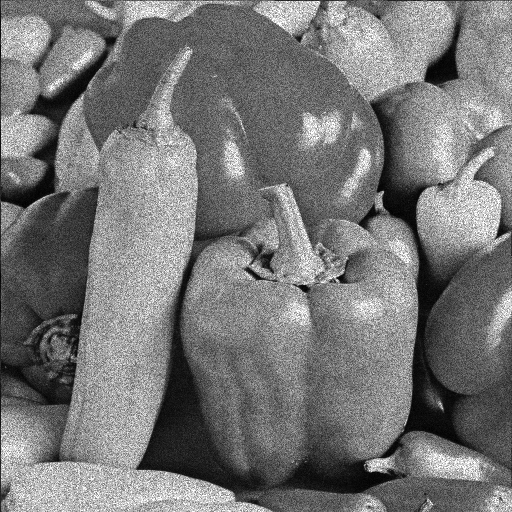
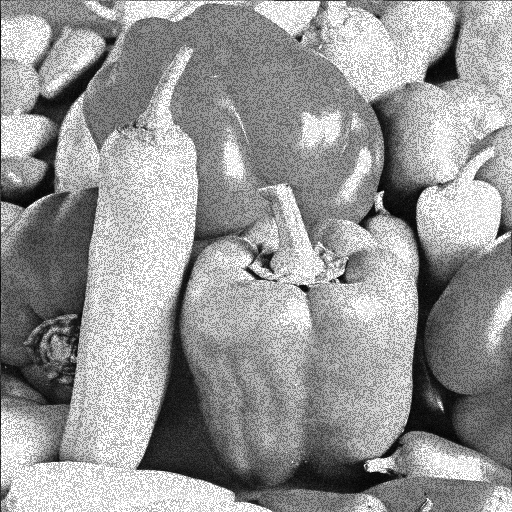
code fini

diff --git a/Noise/Multiplicative_Noise/main.py b/Noise/Multiplicative_Noise/main.py
@@ -11,23 +11,21 @@ image_path = '../../Reference_Images/image1_reference.png'
 image = io.imread(image_path)
 normal_image = image.copy().astype(float) # Convert to float for accurate calculations
 
-# The strength of the multiplicative noise
-multiplicative_noise = input('Enter the multiplicative noise value (0-255) : ')
-while multiplicative_noise == '' or float(multiplicative_noise) < 0 or float(multiplicative_noise) > 255:
-    multiplicative_noise = input('Enter the multiplicative noise value (0-255) : ')
-multiplicative_noise = float(multiplicative_noise)
-
 # The probability of the noise
 noise_probability = input('Enter the noise probability (0-1, the lower the stronger) : ')
 while noise_probability == '' or float(noise_probability) < 0 or float(noise_probability) > 1:
     noise_probability = input('Enter the noise probability (0-1, the lower the stronger) : ')
 noise_probability = float(noise_probability)
 
+mean = 1  # Multiplicative noise mean is usually 1
+std_dev = 0.1  # Adjust this value based on the desired level of noise
+
 # Iterate through each pixel in the image and apply multiplicative noise
 for row in range(len(image)):
     for pixel in range(len(image[row])):
         if np.random.random() > noise_probability:
-            noise = np.random.uniform(-multiplicative_noise/255, multiplicative_noise/255)
+            noise = float(np.random.normal(mean, std_dev))
+            noise = np.clip(noise, -0.5, 0.5)  # Adjust the range of noise factor as needed
             # Apply the multiplicative noise: u * (1 + n)
             image[row][pixel] = np.clip(image[row][pixel] * (1 + noise), 0, 255)
 

diff --git a/Noise/Additive_Noise/main.py b/Noise/Additive_Noise/main.py
@@ -11,23 +11,20 @@ image_path = '../../Reference_Images/image1_reference.png'
 image = io.imread(image_path)
 normal_image = image.copy().astype(float) # Convert to float for accurate calculations
 
-# The strength of the additive noise
-additive_noise = input('Enter the additive noise value (0-255) : ')
-while additive_noise == '' or float(additive_noise) < 0 or float(additive_noise) > 255:
-    additive_noise = input('Enter the additive noise value (0-255) : ')
-additive_noise = float(additive_noise)
-
 # The probability of the noise
 noise_probability = input('Enter the noise probability (0-1, the lower the stronger) : ')
 while noise_probability == '' or float(noise_probability) < 0 or float(noise_probability) > 1:
     noise_probability = input('Enter the noise probability (0-1, the lower the stronger) : ')
 noise_probability = float(noise_probability)
 
+mean = 0
+std_dev = 50
 # Iterate through each pixel in the image and randomly add or subtract the random additive noise value (min 0, max 255)
 for row in range(len(image)):
     for pixel in range(len(image[row])):
         if np.random.random() > noise_probability:
-            noise = np.random.uniform(-additive_noise, additive_noise)
+            noise = float(np.random.normal(mean, std_dev))
+            noise = np.clip(noise, -255, 255)
             #u + n
             image[row][pixel] = np.clip((image[row][pixel] + noise), 0, 255)
 

diff --git a/Noise/Gaussian_Noise/main.py b/Noise/Gaussian_Noise/main.py
@@ -3,15 +3,6 @@ import math
 from skimage import io
 import numpy as np 
 
-# Fonction pour générer du bruit gaussien
-def generate_gaussian_noise(mu, sigma):
-    u1 = random.random()
-    u2 = random.random()
-    x = math.sqrt(-2 * math.log(u1)) * math.cos(2 * math.pi * u2)
-    #TODO: random.normalvariate(mu, sigma)
-    #TODO: faire du np.random.normal(mu, sigma) dans chaque type de bruits au lieu de demander a l'user de choisir entre 0-255
-    return mu + sigma * x
-
 def compute_snr(image, noisy_image):
     signal_power = np.mean(image**2)
     noise_power = np.mean((image - noisy_image)**2)
@@ -28,7 +19,7 @@ sigma = input("Enter the standard deviation of the gaussian noise (between 0 and
 
 for line in range(len(image)):
     for pixel in range(len(image[line])):
-            x = generate_gaussian_noise(float(mu), float(sigma))
+            x = random.normalvariate(float(mu), float(sigma))
             #print("la valeur de x est : ", x)
             image[line][pixel] = np.clip((image[line][pixel] + x), 0, 255)
     
